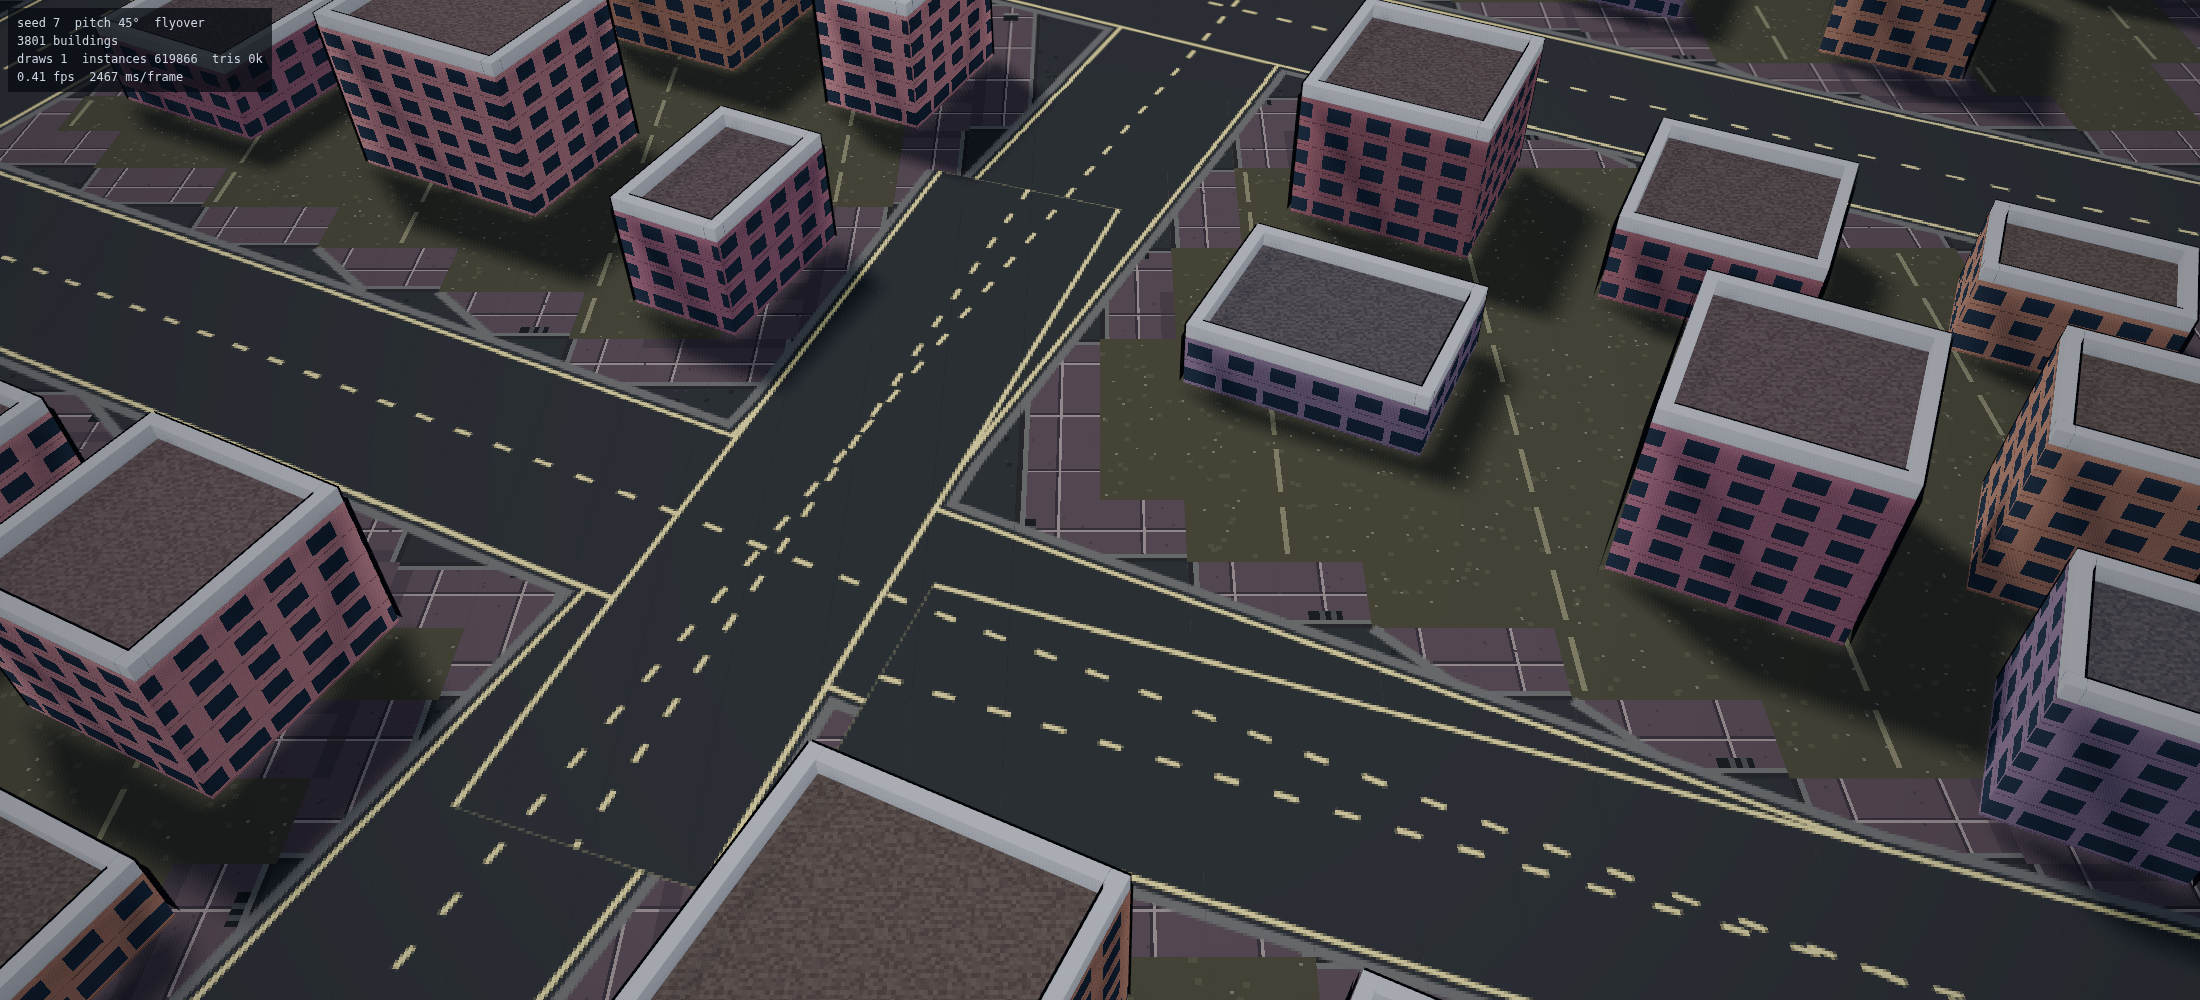
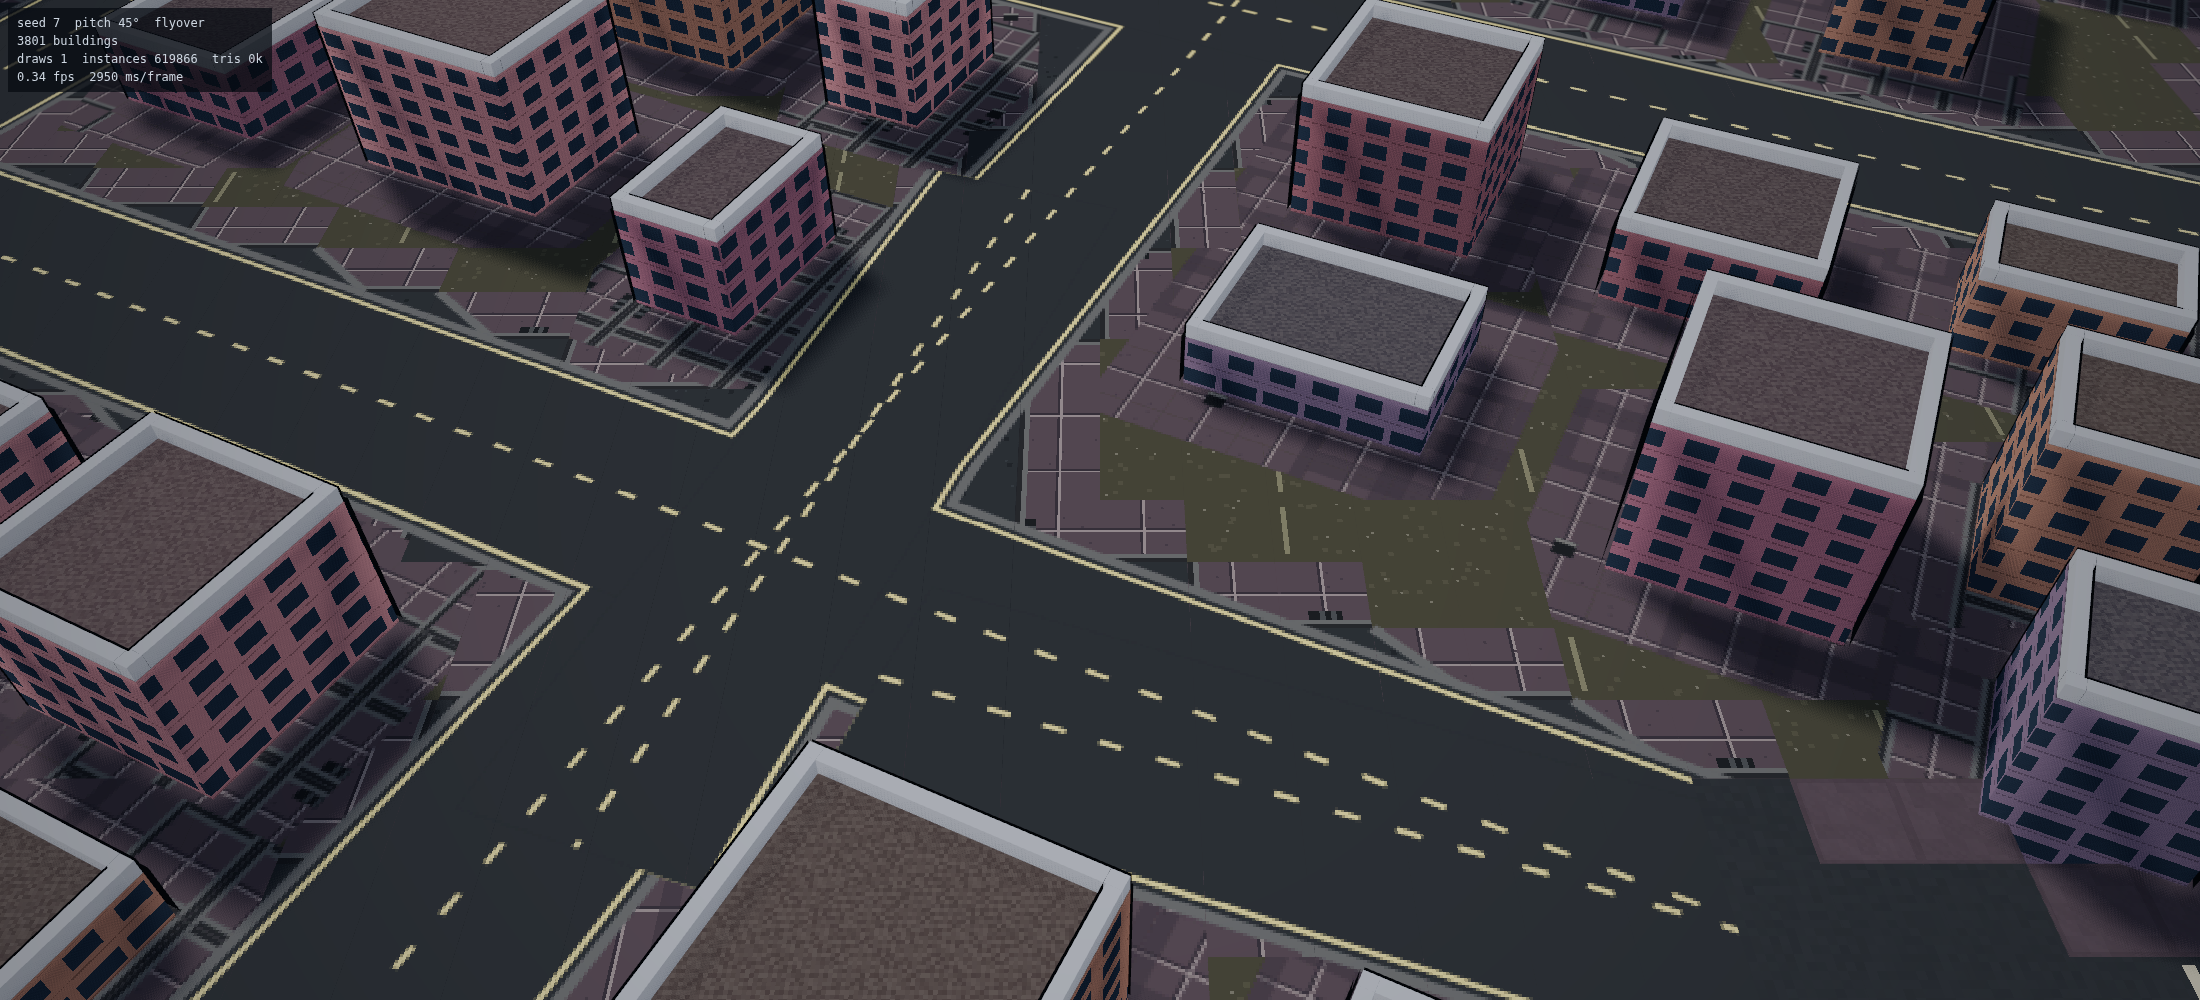
Course markings drawn widest-last, and a forecourt that turns with its house (WORLDGEN.md §21)
Two of the three things asked for. The third is written up as not done,
with what it cost.

MARKINGS. `paintCourses` put casing down for every course and then fill
for every course — that ordering is deliberate, it is what opens a
junction — but stroked the edge lines PER COURSE and the centre dash for
everything at the end. Where two courses overlap, each left its markings
across the other's surface: two dashed centre lines and a stray pale
edge on one sheet of tarmac, which is what makes a merge read as
layering rather than as width. The repaint and the dash now go down in
width order, thinnest first, so each tier covers the thinner markings it
crosses before its own dash goes on. The avenue's line carries on; the
street's stops where the avenue takes over.

FORECOURT. §20 turned the mass and left it on square paving, which reads
as a house somebody rotated after the fact. `paintMassApron` lays the
apron the building would have: the mass grown by a tile, at the mass's
own angle, slabs painted in the apron's own frame so the paving runs
with the house. Clipped to the building's tiles and the soft ground
beside them — a doorstep may take a tile of grass and not a lane. Both
chunk builders draw it, so the 2D city and the 3D ground agree.

THE MERGE ITSELF is measured, diagnosed, built, and taken back out.
490 tiles of carriageway are over-wide by `signals.isJunctionTile`'s own
test, and 441 of them are within eight tiles of an authored avenue: a
[…]

diff --git a/client/src/render/tiles.ts b/client/src/render/tiles.ts
@@ -407,15 +407,35 @@ export class TileLayer {
       ctx.strokeStyle = palette.roadLane;
       ctx.lineWidth = p.w - 2 * t;
       ctx.stroke(p.path);
-      ctx.strokeStyle = palette.road;
-      ctx.lineWidth = p.w - 4 * t;
-      ctx.stroke(p.path);
     }
-    // The centre line: one dashed curve, flowing through the whole course.
-    ctx.setLineDash([4 * t, 6 * t]);
-    ctx.strokeStyle = palette.roadLane;
-    ctx.lineWidth = t;
-    for (const p of paths) ctx.stroke(p.path);
+
+    // Then the interior repaint and the centre dash, WIDEST LAST (§21).
+    //
+    // Drawn in one pass for every course, a street's lane lines and centre
+    // dash survive on top of an avenue that swallows it — the repaint only
+    // covers a course's own interior, and the dash is drawn last by design.
+    // Where a lattice line runs alongside an avenue that is two sets of
+    // markings on one sheet of tarmac, which is what "the streets are
+    // layered on top of each other" looks like. Going up the widths, each
+    // tier's repaint covers every thinner course's markings it crosses
+    // before its own dash goes on: the avenue's line carries on, the
+    // street's stops where the avenue takes over.
+    //
+    // The casing and the fill above stay in ONE pass each, because their
+    // order is what opens a junction (§16) — grouping those by width would
+    // draw an avenue's kerb across every street that meets it.
+    const tiers = [...new Set(paths.map((p) => p.w))].sort((a, b) => a - b);
+    for (const w of tiers) {
+      const tier = paths.filter((p) => p.w === w);
+      ctx.setLineDash([]);
+      ctx.strokeStyle = palette.road;
+      ctx.lineWidth = w - 4 * t;
+      for (const p of tier) ctx.stroke(p.path);
+      ctx.setLineDash([4 * t, 6 * t]);
+      ctx.strokeStyle = palette.roadLane;
+      ctx.lineWidth = t;
+      for (const p of tier) ctx.stroke(p.path);
+    }
     ctx.setLineDash([]);
     ctx.restore();
   }
@@ -806,6 +826,10 @@ export class TileLayer {
         this.paintGround(ctx, tx, ty, x, y, tile, false);
       }
     }
+    // The turned forecourts (§21), over the tile ground and under nothing:
+    // in 3D the mass itself is geometry, so the texture only ever shows the
+    // apron round it.
+    for (const m of this.massesNear(tx0, ty0)) this.paintMassApron(ctx, m, tx0, ty0);
     this.paintCourses(ctx, tx0, ty0);
     sctx.putImageData(mask, 0, 0);
     cctx.putImageData(cutMask, 0, 0);
@@ -859,6 +883,7 @@ export class TileLayer {
       }
       const square = (tx: number, ty: number): boolean =>
         this.tileAt(tx, ty) === T_BUILDING && !massed.has(ty * W + tx);
+      for (const m of masses) this.paintMassApron(ctx, m, tx0, ty0);
       for (const m of masses) this.paintMassWall(ctx, m, tx0, ty0);
       for (let ty = ty0 - 1; ty <= ty0 + CHUNK_TILES; ty++) {
         for (let tx = tx0 - 1; tx <= tx0 + CHUNK_TILES; tx++) {
@@ -2000,6 +2025,77 @@ export class TileLayer {
       }
     }
     this.paintGround(ctx, tx, ty, x, y, ground, plants);
+  }
+
+  /**
+   * The paving a turned building stands on, turned with it.
+   *
+   * A building's plot is laid in tiles, so its forecourt is a square ring of
+   * pavement round a mass that is not square — and a turned house on square
+   * paving reads as a house somebody rotated after the fact, which is what it
+   * was. This lays the apron the building would actually have: the mass grown
+   * by a tile, at the mass's own angle, in the pavement the plot is made of.
+   *
+   * Clipped to the building's own footprint and the ring of ground beside it,
+   * and never over carriageway or water — a doorstep may take a tile of grass
+   * and may not take a lane. The mass is drawn on top of this immediately
+   * afterwards, so what shows is the margin between them.
+   */
+  private paintMassApron(
+    ctx: CanvasRenderingContext2D,
+    m: { b: Building; i: number },
+    tx0: number,
+    ty0: number,
+  ): void {
+    const b = m.b;
+    const mass = buildingMass(b);
+    ctx.save();
+    // Only over ground the apron is allowed on: this building's own tiles,
+    // and the pavement or garden immediately round them.
+    ctx.beginPath();
+    for (let ty = b.y - 1; ty <= b.y + b.h; ty++) {
+      for (let tx = b.x - 1; tx <= b.x + b.w; tx++) {
+        const t = this.tileAt(tx, ty);
+        const own = tx >= b.x && tx < b.x + b.w && ty >= b.y && ty < b.y + b.h;
+        const soft =
+          t === T_SIDEWALK || t === T_PARK || t === T_FIELD || t === T_LOT || t === T_BUILDING;
+        if (!own && !soft) continue;
+        ctx.rect((tx - tx0) * TD, (ty - ty0) * TD, TD, TD);
+      }
+    }
+    ctx.clip();
+    ctx.translate((mass.cx - tx0) * TD, (mass.cy - ty0) * TD);
+    ctx.rotate(mass.rad);
+    // A tile of forecourt all round, and the paving the plot is made of.
+    const w = (mass.w + 2) * TD;
+    const h = (mass.h + 2) * TD;
+    const cx = Math.floor(mass.cx);
+    const cy = Math.floor(mass.cy);
+    ctx.translate(-w / 2, -h / 2);
+    this.paintApronGround(ctx, cx, cy, w, h);
+    ctx.restore();
+  }
+
+  /** The apron's surface: pavement art, tiled across the turned rectangle. */
+  private paintApronGround(
+    ctx: CanvasRenderingContext2D,
+    tx: number,
+    ty: number,
+    w: number,
+    h: number,
+  ): void {
+    ctx.save();
+    ctx.beginPath();
+    ctx.rect(0, 0, w, h);
+    ctx.clip();
+    // Painted tile by tile in the apron's OWN frame, so the paving slabs run
+    // with the building rather than with the world.
+    for (let y = 0; y < h; y += TD) {
+      for (let x = 0; x < w; x += TD) {
+        this.paintSidewalk(ctx, tx + Math.round(x / TD), ty + Math.round(y / TD), x, y);
+      }
+    }
+    ctx.restore();
   }
 
   /**

diff --git a/WORLDGEN.md b/WORLDGEN.md
@@ -2684,3 +2684,103 @@ doing 300 px/s that is the right trade, because the alternative is oriented
 bounding boxes inside the prediction hot loop. A doorway is still on a tile
 edge. And a building on a seam between two fabrics still faces the world
 rather than picking one of its two streets.
+
+---
+
+## 21. Streets on top of one another — the merge, the markings, and the forecourt
+
+### 21.1 The review
+
+Asked why streets look layered on top of each other, the answer was two
+things, one in the ground and one in the paint.
+
+**The ground.** Counting carriageway that is over-wide — more than nine
+continuous tiles of tarmac in ALL FOUR directions, which is
+`signals.isJunctionTile`'s own test (`MAX_LANE_TILES = 4`) and is what makes a
+plaza rather than a crossroads — the city has **490 such tiles, and 441 of
+them lie within eight tiles of an authored avenue**. It is not lattice on
+lattice: it is a borough's street running alongside an avenue and merging with
+it into one sheet. Biggest patches: 13×8 tiles beside The Parade, and 10×14 in
+The Terraces.
+
+There IS a guard, and it is the right idea aimed at the wrong granularity.
+`doubledUp` and `doubledUpCourse` refuse a street that spends MOST of its run
+beside somebody else's road — and their own comments say why the threshold is
+generous: *"a lattice line can brush one for a third of its length while being
+the only street the rest of the borough has."* True, and the consequence is
+that the brushing third gets carved.
+
+The Old Quarter is where it shows, because it is the tightest fabric in the
+city and its lines are closest together. Pitch 11×9 with 3-wide streets is
+**55% road by construction** — 1 − (8/11)(6/9) = 51.5% predicted, 55% measured,
+against 26% in New Suburbs — so an avenue landing between two lattice lines
+merges with both.
+
+**The paint.** `paintCourses` strokes casing for every course and then fill for
+every course, so casings get covered — that ordering is deliberate and is what
+opens a junction (§16). But the edge lines were stroked PER COURSE (pale ring
+at width−2, then the interior repainted at width−4), and the centre dash for
+every course at the end. Where two courses overlap, each left its own markings
+lying across the other's surface: two dashed centre lines and a stray pale edge
+line on one sheet of tarmac. That is what makes a merge read as *layering*
+rather than as width.
+
+### 21.2 DELIVERED: the markings, and the forecourt
+
+**Markings, widest last.** The pale rings still go down in one pass. The
+interior repaint and the centre dash now go down in width order, thinnest
+first: each tier's repaint covers every thinner course's markings it crosses
+before its own dash goes on. An avenue's line carries on through; the street's
+stops where the avenue takes over. The casing and fill stay in one pass each,
+because grouping THOSE by width would draw an avenue's kerb across every
+street that meets it.
+
+**The forecourt turns with the house.** §20 turned the mass and left it
+standing on square paving, which reads as a house somebody rotated after the
+fact — which is what it was. `paintMassApron` lays the apron the building
+would actually have: the mass grown by a tile, at the mass's own angle, with
+the paving slabs painted in the apron's own frame so they run with the
+building. Clipped to the building's own tiles and the ring of soft ground
+beside them, so a doorstep may take a tile of grass and may not take a lane.
+Both chunk builders draw it, so the 2D city and the 3D ground texture agree.
+Evidence: `evidence/city-facing-3d.png`.
+
+### 21.3 NOT DELIVERED: the merge itself, and why
+
+The ground fix was built and taken out again. It is written down here because
+it very nearly works and the next attempt should start from what it cost.
+
+The fix is to move the doubling test from the LINE to the TILE, and to make it
+direction-aware: a field of the nearest authored road per tile and the
+direction it runs, and a lattice tile is not carved when an avenue is within
+half a width plus three AND within 25° of parallel. Direction is the whole of
+it — a street CROSSING an avenue is near it for a few tiles and must still be
+carved, because that crossing is the junction the street exists to make; only
+near-and-parallel is a duplicate.
+
+Measured, it does what it says. Over-wide patches fell from **119 to 73**, the
+worst from **71 tiles to 46**, and the 13×8 sheet beside The Parade became
+three ordinary junctions.
+
+It also broke three tests, and one of them matters: an errand driver stopped
+completing its route. Trimming the middle of a line leaves the ends behind, and
+the city gained **24 dead-end stubs** (195 → 219). A stub is still connected,
+so `checkCity`'s one-street-network rule passes it and the bake's
+scrap-clearing pass — which only takes carriageway off the main network —
+leaves it alone. A cosmetic gain of 0.3% of carriageway is not worth a car
+that cannot finish its journey.
+
+What the next attempt needs is a way to retire the whole of a line that
+conflicts rather than the conflicting stretch of it, or a pass that clears the
+stubs the trim leaves — the shape of `trimCourses`, applied to tiles rather
+than to courses.
+
+And one thing the measurement found that is NOT this bug: **The Terraces is
+51% carriageway**, with a 46-tile sheet down its middle that the avenue guard
+does not touch. Its contour bands are iso-lines of the shore distance field,
+and where that field's wavefronts meet — the medial axis between two stretches
+of water — the bands stop being a pitch apart. A local gradient test was tried
+and rejected: it changed one block and two buildings, so the smearing is not a
+flat gradient but two unrelated band families interleaving. Banding each
+borough against ONE shore rather than against the nearest water is the fix, and
+it is a design change rather than a guard.
